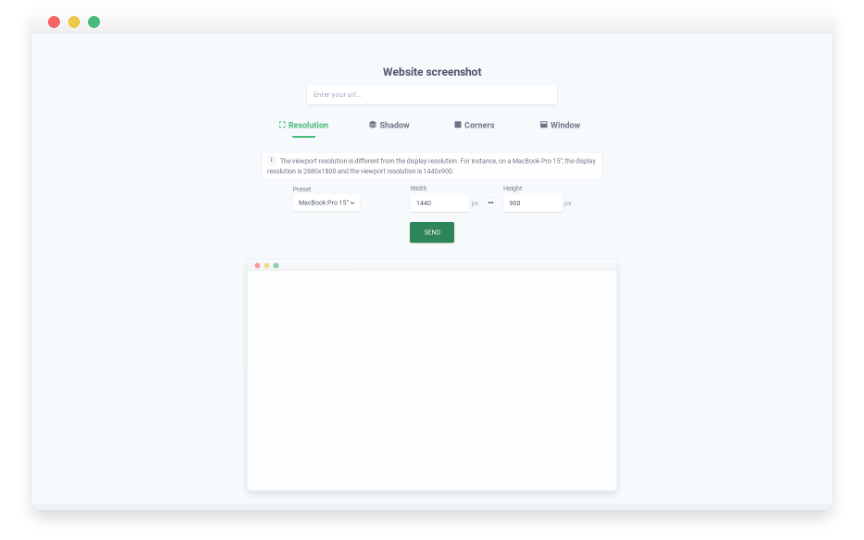
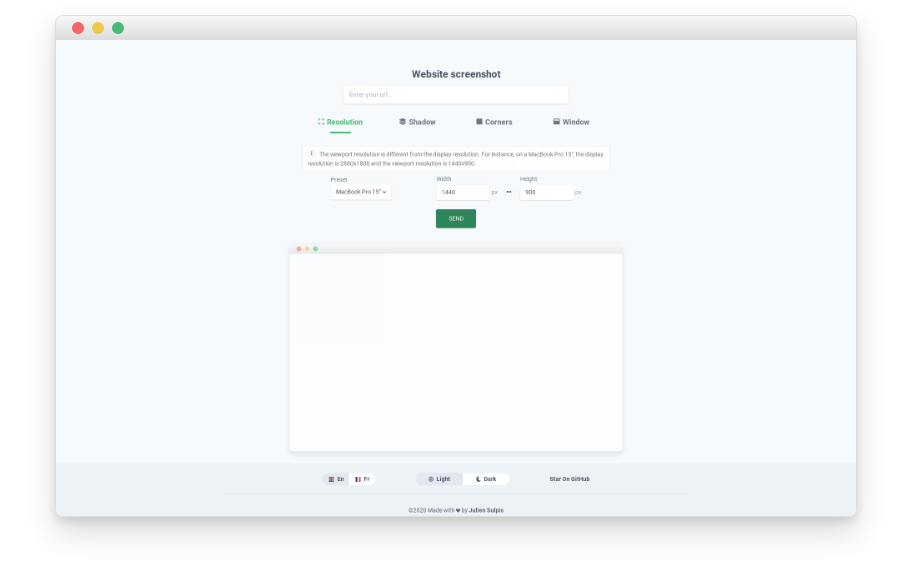
fix purgecss and change preview

diff --git a/src/nuxt.config.js b/src/nuxt.config.js
@@ -57,7 +57,7 @@ module.exports = {
     "@nuxtjs/pwa"
   ],
   purgeCSS: {
-    whitelist: ["__nuxt", "__layout", "dark-mode"],
+    whitelist: ["__nuxt", "__layout", "dark-mode", "font-semibold"],
     whitelistPatterns: [/page-(enter|leave)/, /svg.*/, /fa.*/] // Keep Fontawesome classes
   },
   pwa: {

diff --git a/src/components/form/ScreenshotShadowInput.vue b/src/components/form/ScreenshotShadowInput.vue
@@ -29,7 +29,7 @@ export default {
   data() {
     return {
       shadows: ["none", "small", "medium", "large"],
-      value: "medium",
+      value: "large",
       displayInfo: false
     };
   },

diff --git a/README.md b/README.md
@@ -22,6 +22,7 @@
 [![Deploy](https://vercel.com/button)](https://vercel.com/import/project?template=https://github.com/jsulpis/website-screenshot)
 
 See the `Deployment` section for more information.
+
 </span>
 
 ## Installation
